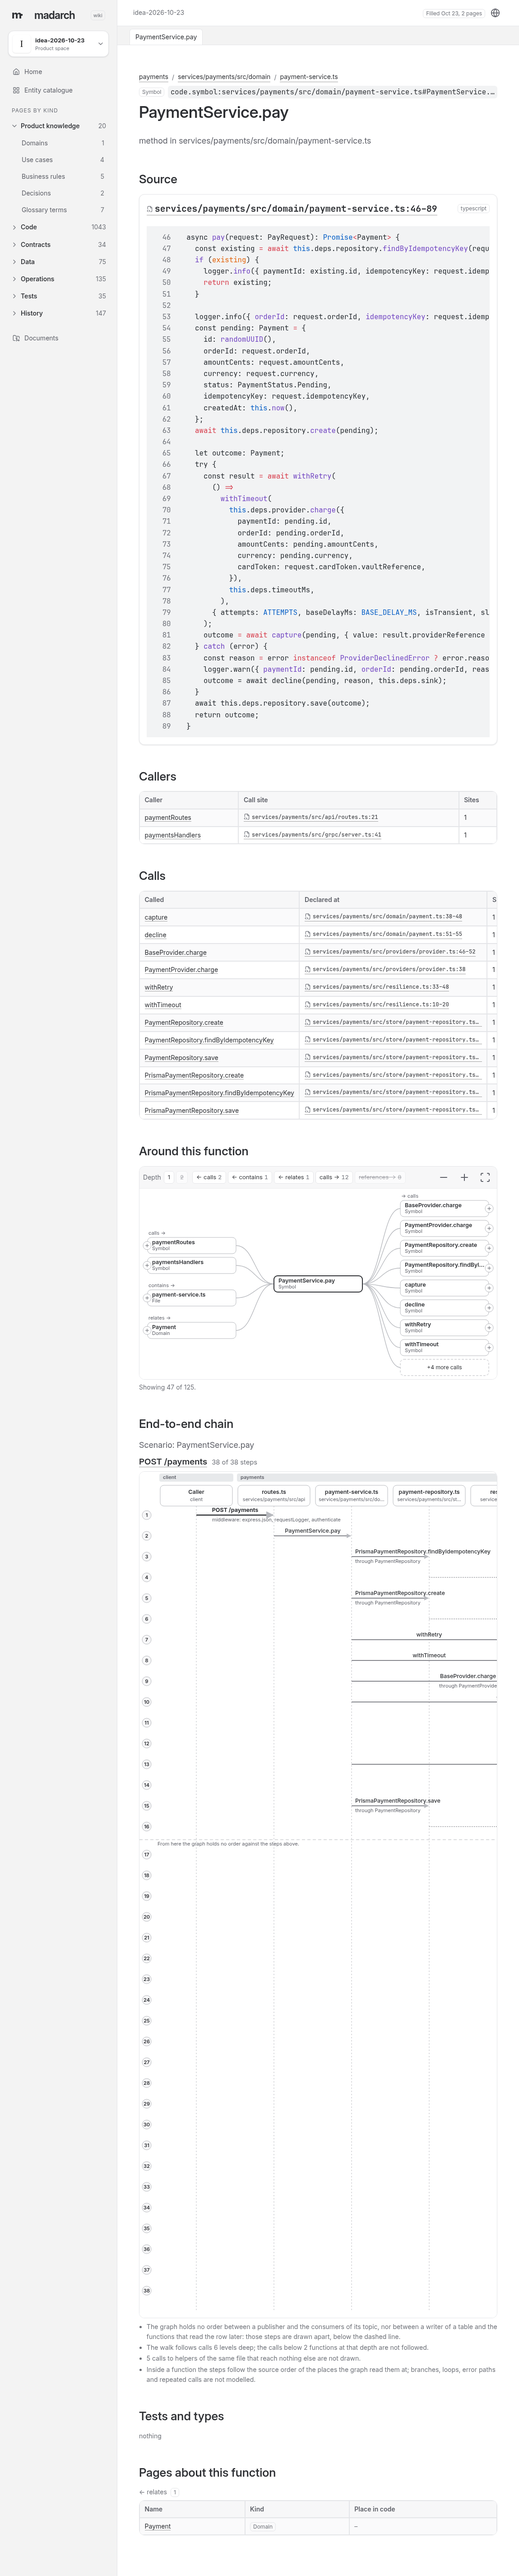
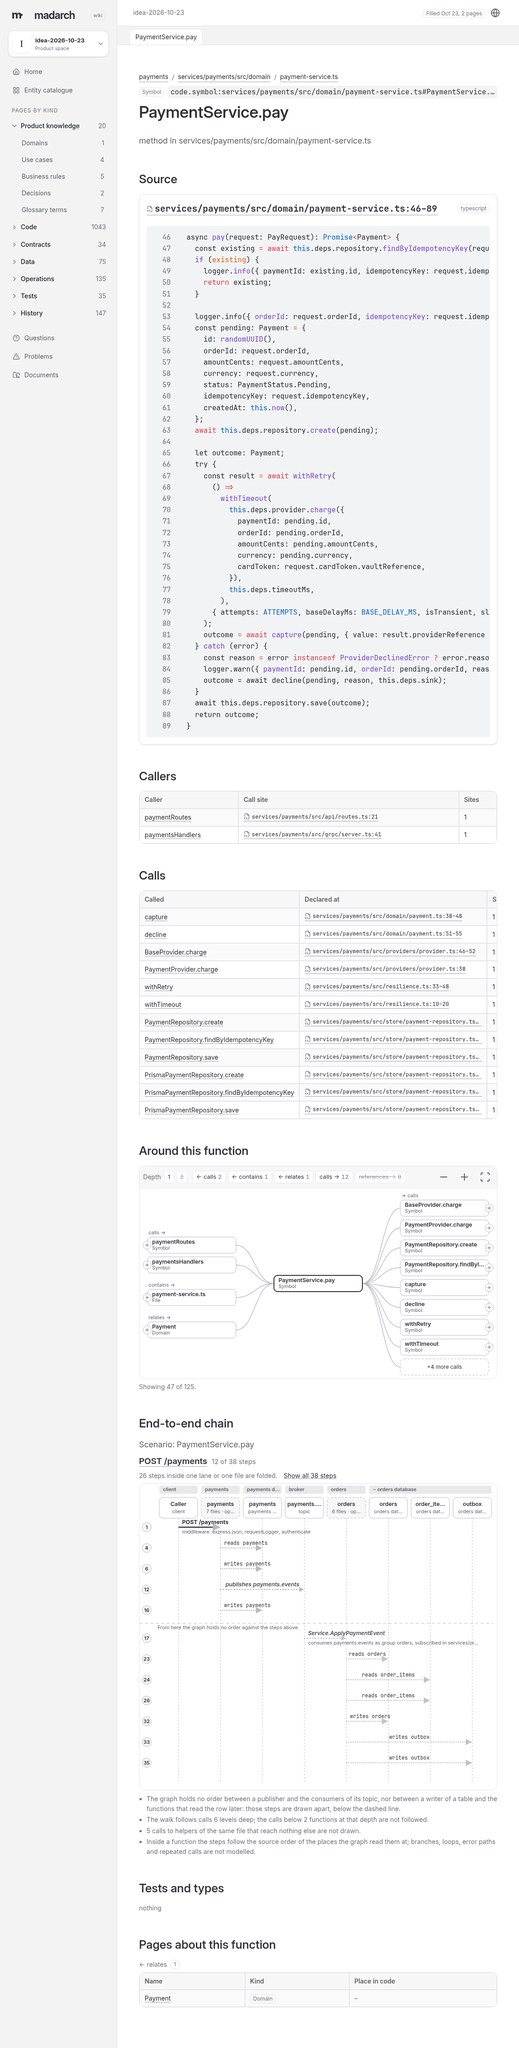
Record the chain's fit to its column: measurements and pictures
Task: madarch-m38l.9

diff --git a/docs/changes/madarch-m38l.9/change.md b/docs/changes/madarch-m38l.9/change.md
@@ -44,23 +44,27 @@ Decision 0029 (blocks over the graph, templates arrange them). Choices inside it
 - **Where a chain starts.** A route page starts at its route; a function page walks the callers upward until a caller stands inside a route's lines; a Markdown page follows its `relates` to those. A function no route reaches starts at itself and says so.
 - **Derived neighbours.** A route's `handled-by` (what its registration calls at the route's lines) and a service's links (calls over HTTP/gRPC, databases, topics) are computed from spans and the system view's own reads; they appear in the neighbourhood with those relation names.
 - **A click opens the node's page in a new in-wiki tab** (`openInNewTab` of madarch-m38l.6) through `DiagramOpenProvider`/`onOpen`; shift and alt are left to the browser, ctrl and the middle button open a tab as in the wiki's other links. A phone shows the chain as a list of steps (the lanes would scroll sideways under a column of bare numbers); the other diagrams pan.
+- **The chain fits its column** (owner's review of the first walk: lanes of every file of three services were wider than the column and the rows were empty). A lane is a service; a service with several files folds into one lane when its files would not fit at the narrowest lane width (92 px), the largest first, and the steps inside a folded lane or inside one file are left out and counted ("53 steps inside one lane or one file are folded"); a click on a lane, or "Show all N steps", opens the files, and a diagram that still is wider than its column scrolls sideways with a shadow at the edge. Every label is moved left and cut to stay inside the lanes (its whole text is the link's title and the list's); step numbers keep the full chain's numbering so the list and the diagram agree.
 - **Read cost.** `relationEdges` bounds its rows with a SQL LIMIT and counts the rest; every view that reads a whole relation says when it read part of it.
 
 ## Acceptance evidence
 On the SkyPilot pod (`madarch-sky-test --avx2`, 2026-10-23), on the generated training repository, fixtures only:
 - `test/knowledge-diagrams.test.ts` (13 tests, fills the training repository): POST /orders reaches handler `Create`, use case `Place`, domain `NewOrder`, `OrderRepository.Create` and the tables orders, order_items and outbox in the answer key's order (flow.orders.*), and the outbox's reader is an unordered step (outbox.chain); POST /payments reaches `PaymentService.pay`, the payments table, the publication to payments.events and its consumer in orders, unordered (flow.payments.chain, interaction.*); POST /checkout calls promotions, then orders over HTTP and payments over gRPC, each entering the serving route or handler (checkout.sequence); a function page reaches its route, a domain page the routes of its functions; the system view has four services, three databases, the topics and the HTTP, gRPC, SQL and event links; the payments service marks the domain-events cycle (payments.cycle.*); the treemap makes order_service.go the hotspot with churn 28 and leaves lock files out (hotspot). Also test/knowledge-render, knowledge-parse and knowledge-server: 61 pass with them; wiki/app: 105 pass, 0 fail (`bun run check`, `bun test`, `bun run build`).
 - Bundle: the app's `dist` is 7.7 MB; the diagram code is in the main chunk (`index-*.js`, 690 kB, 210 kB gzip) and adds no dependency; Cytoscape and ELK are mermaid's own lazy chunks, as before.
+- Chain, after the owner's review: at 1150 px every lane of POST /checkout, POST /orders and POST /payments is inside the frame and every row has its label and arrow in view; the first version's 18 lanes of POST /checkout are 7 (client, checkout, promotions and its database, orders, payments and its database), 9 of 62 steps drawn and 53 counted as folded.
 - Compiled binary: `bun scripts/build-binary.ts` built `madarch-linux-x64` (119 MB, smoke ok), and `bun scripts/diagram-shots.ts --binary` made a product with the binary's own starter set, filled the training repository and drew every diagram through the binary's embedded app: 38 pictures (9 pages at 1150 px and 390 px, light and dark) in `/tmp/claude-1000/-home-dev-repos-madarch/6e4827be-b38f-4d37-915a-ccde034281b8/scratchpad/shots-diagrams/`; two are committed under docs/prototypes/madarch-m38l.9. Every picture was looked at; what was wrong (an unreadable crop of the system view at the right, lock files filling the treemap, the neighbourhood cut at the bottom, a type-reference relation drowning the function's neighbours, the chain on a phone) was fixed and the walk rerun.
 - Label sizes (the font size as rendered, after the diagram's scale) and overlaps between the texts of one diagram, measured by the walk in the browser (`measures.json`):
-- modules at 1150 px, light and dark: smallest label 8.8 px as rendered, 80 texts, summed over 9 pages and both schemes, 0 overlaps
-- modules at 390 px, light and dark: smallest label 8.8 px as rendered, 80 texts, summed over 9 pages and both schemes, 0 overlaps
-- neighborhood at 1150 px, light and dark: smallest label 11 px as rendered, 244 texts, summed over 9 pages and both schemes, 0 overlaps
-- neighborhood at 390 px, light and dark: smallest label 9.9 px as rendered, 244 texts, summed over 9 pages and both schemes, 0 overlaps
-- sequence at 1150 px, light and dark: smallest label 11 px as rendered, 1236 texts, summed over 9 pages and both schemes, 0 overlaps
-- system at 1150 px, light and dark: smallest label 8.8 px as rendered, 54 texts, summed over 9 pages and both schemes, 0 overlaps
-- system at 390 px, light and dark: smallest label 8.8 px as rendered, 54 texts, summed over 9 pages and both schemes, 0 overlaps
-- treemap at 1150 px, light and dark: smallest label 10 px as rendered, 420 texts, summed over 9 pages and both schemes, 0 overlaps
-- treemap at 390 px, light and dark: smallest label 10 px as rendered, 180 texts, summed over 9 pages and both schemes, 0 overlaps
+- modules at 1150 px, light and dark: smallest label 8.8 px as rendered, 80 texts, summed over the pages and both schemes, 0 overlaps
+- modules at 390 px, light and dark: smallest label 8.8 px as rendered, 80 texts, summed over the pages and both schemes, 0 overlaps
+- neighborhood at 1150 px, light and dark: smallest label 11 px as rendered, 244 texts, summed over the pages and both schemes, 0 overlaps
+- neighborhood at 390 px, light and dark: smallest label 9.9 px as rendered, 244 texts, summed over the pages and both schemes, 0 overlaps
+- sequence at 1150 px, light and dark: smallest label 11 px as rendered, 404 texts, summed over the pages and both schemes, 0 overlaps
+- system at 1150 px, light and dark: smallest label 8.8 px as rendered, 54 texts, summed over the pages and both schemes, 0 overlaps
+- system at 390 px, light and dark: smallest label 8.8 px as rendered, 54 texts, summed over the pages and both schemes, 0 overlaps
+- treemap at 1150 px, light and dark: smallest label 10 px as rendered, 420 texts, summed over the pages and both schemes, 0 overlaps
+- treemap at 390 px, light and dark: smallest label 10 px as rendered, 180 texts, summed over the pages and both schemes, 0 overlaps
+- chains at 1150 px, light and dark (8 chains: end-to-end of POST /payments twice, POST /orders, POST /checkout): 60 lanes drawn, 0 lanes clipped, 0 rows whose label or arrow leave the visible frame, 362 list items of which 0 empty
+- chains at 390 px, light and dark (8 chains: end-to-end of POST /payments twice, POST /orders, POST /checkout): 46 lanes drawn, 0 lanes clipped, 0 rows whose label or arrow leave the visible frame, 362 list items of which 0 empty (at 390 px the chain is the list of steps; the diagram is not shown)
 - Read-only Codex review: nine findings, eight fixed with tests (alternatives at one call site, folded relation limits counted and propagated, the SQL bound, the more chip's paging, an opened node's opposite side, filters taking their edges, stale blocks reset); the ninth (control-click is intercepted) is the wiki's own convention for its links and is kept.
 
 Limits: a route whose handler is shared by several routes loses it after the first registration (the extractor folds the sites of a pair into one edge; the occurrence records would answer it); the 8.8 px smallest label of the system and module views is the kind line at the view's smallest scale (0.8), and the wider views start at their left edge and are panned; chain consumers are limited to 40 unordered entries; mutation testing is not run (one run per assembled stage).
